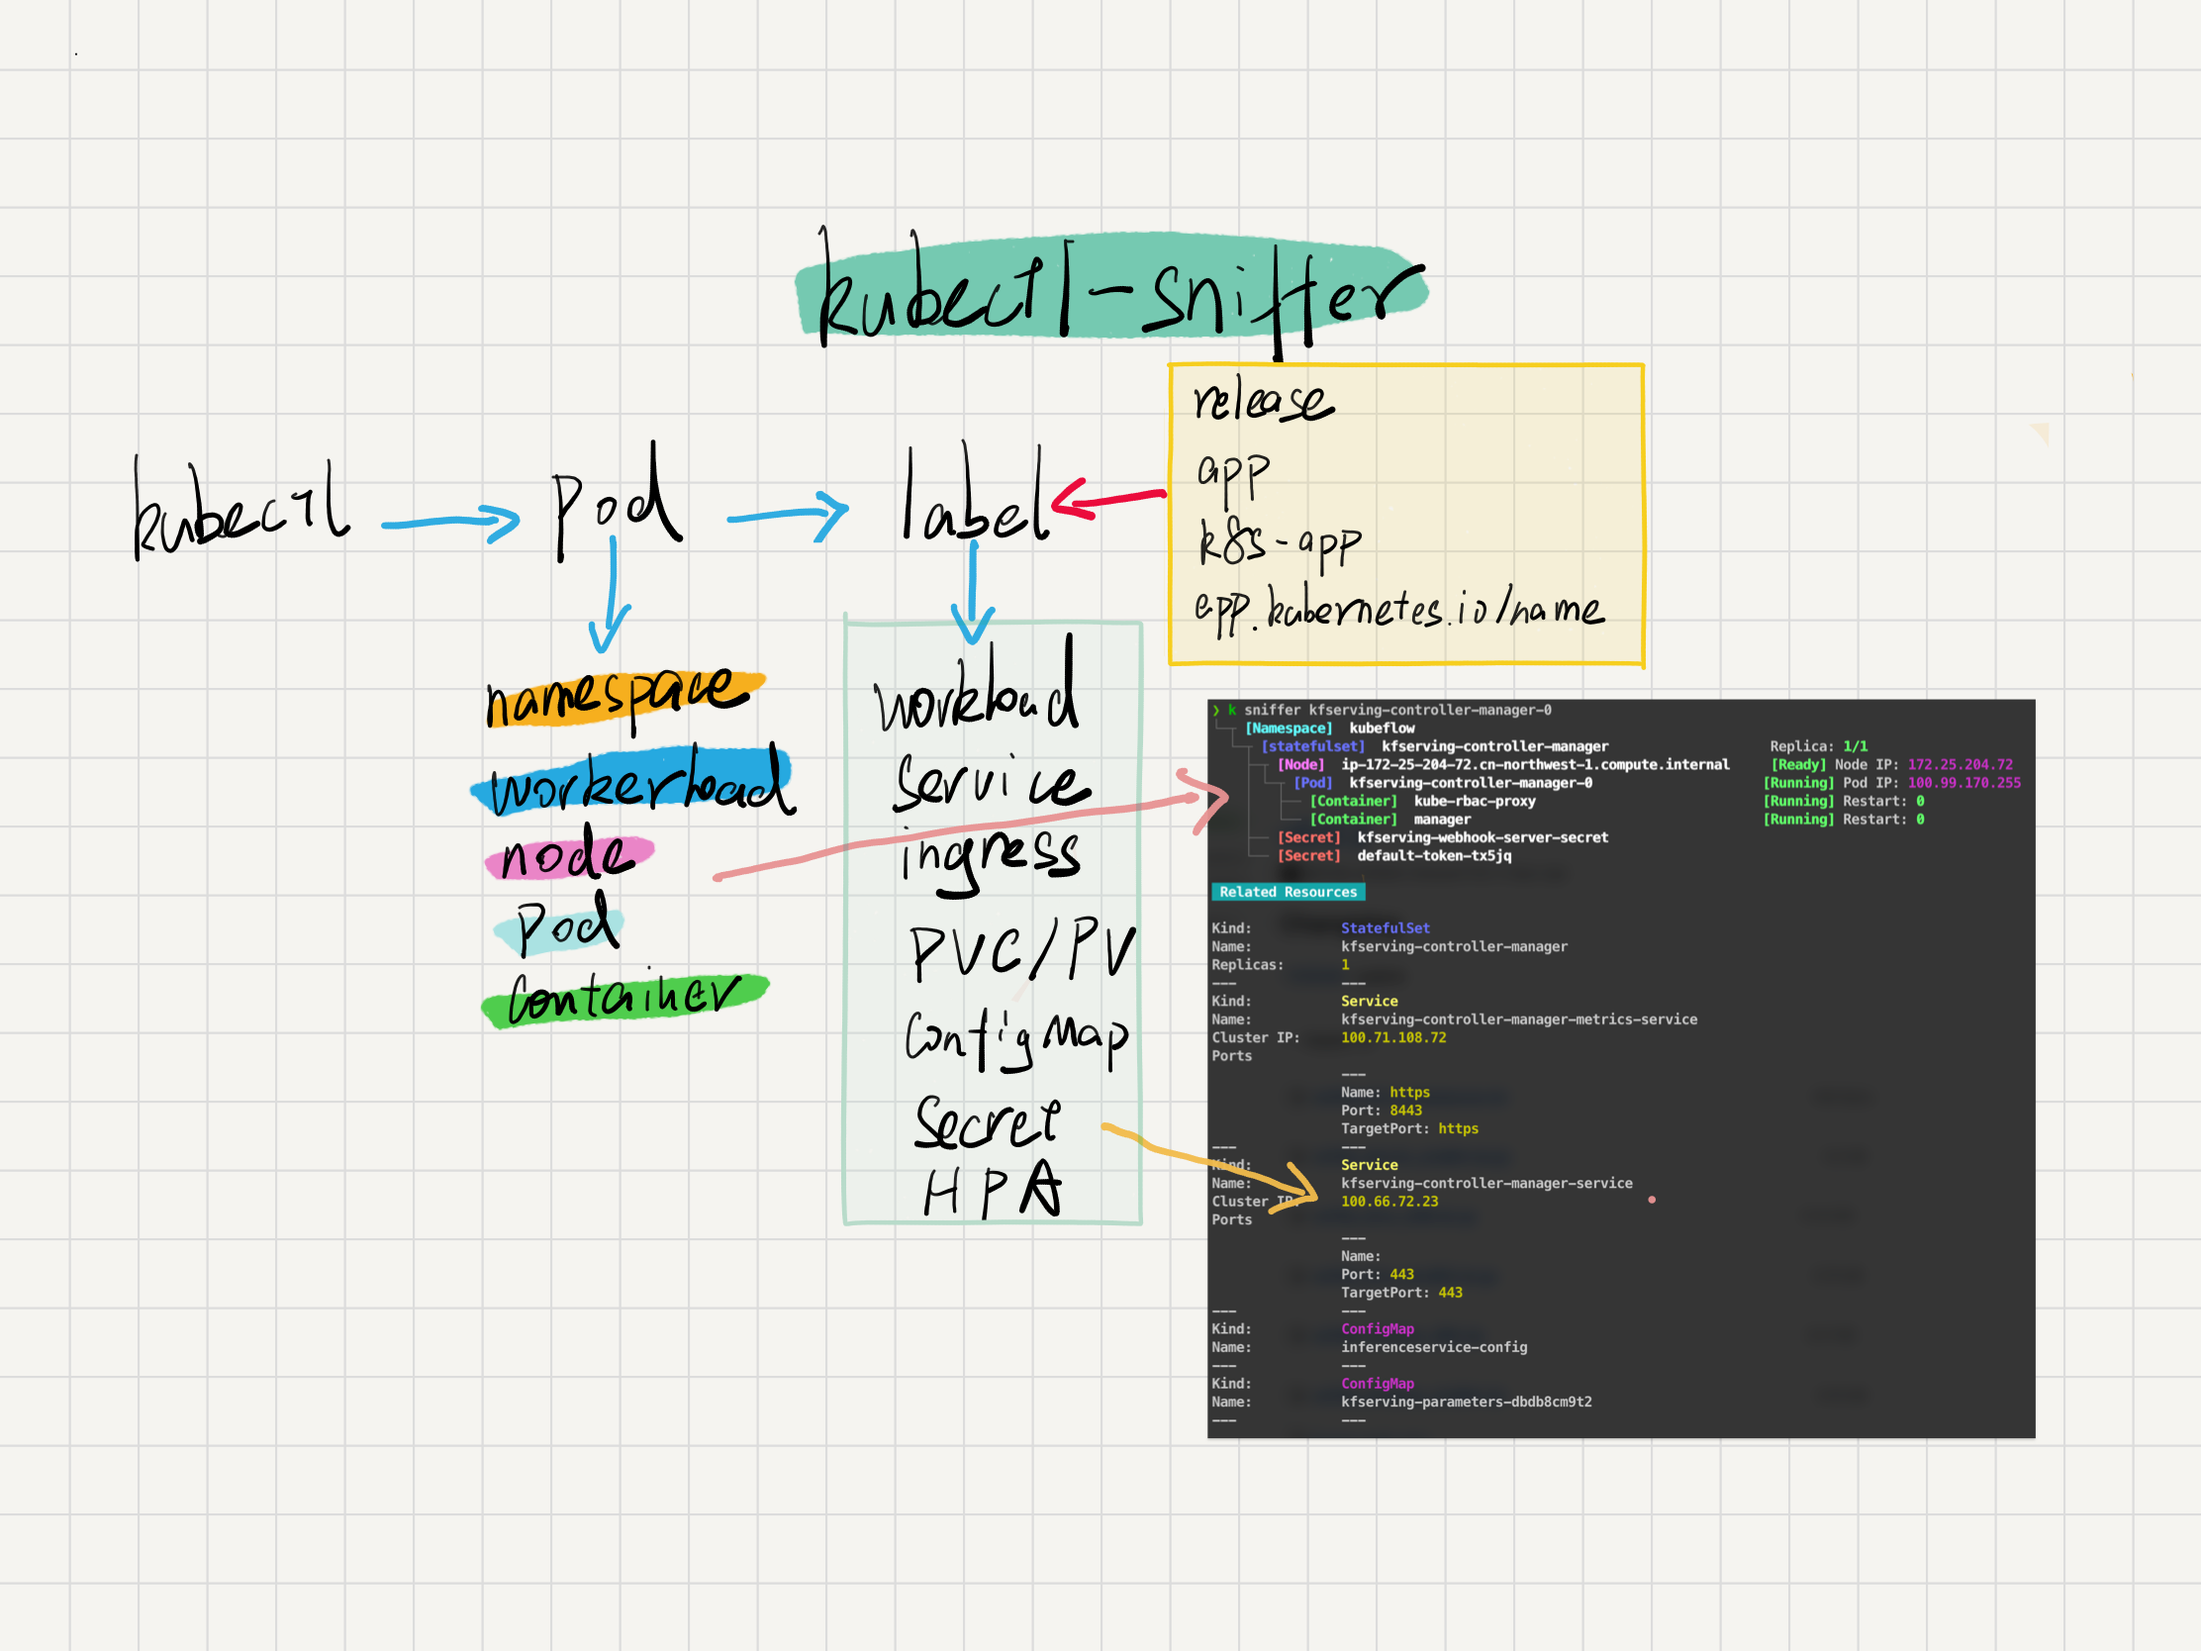
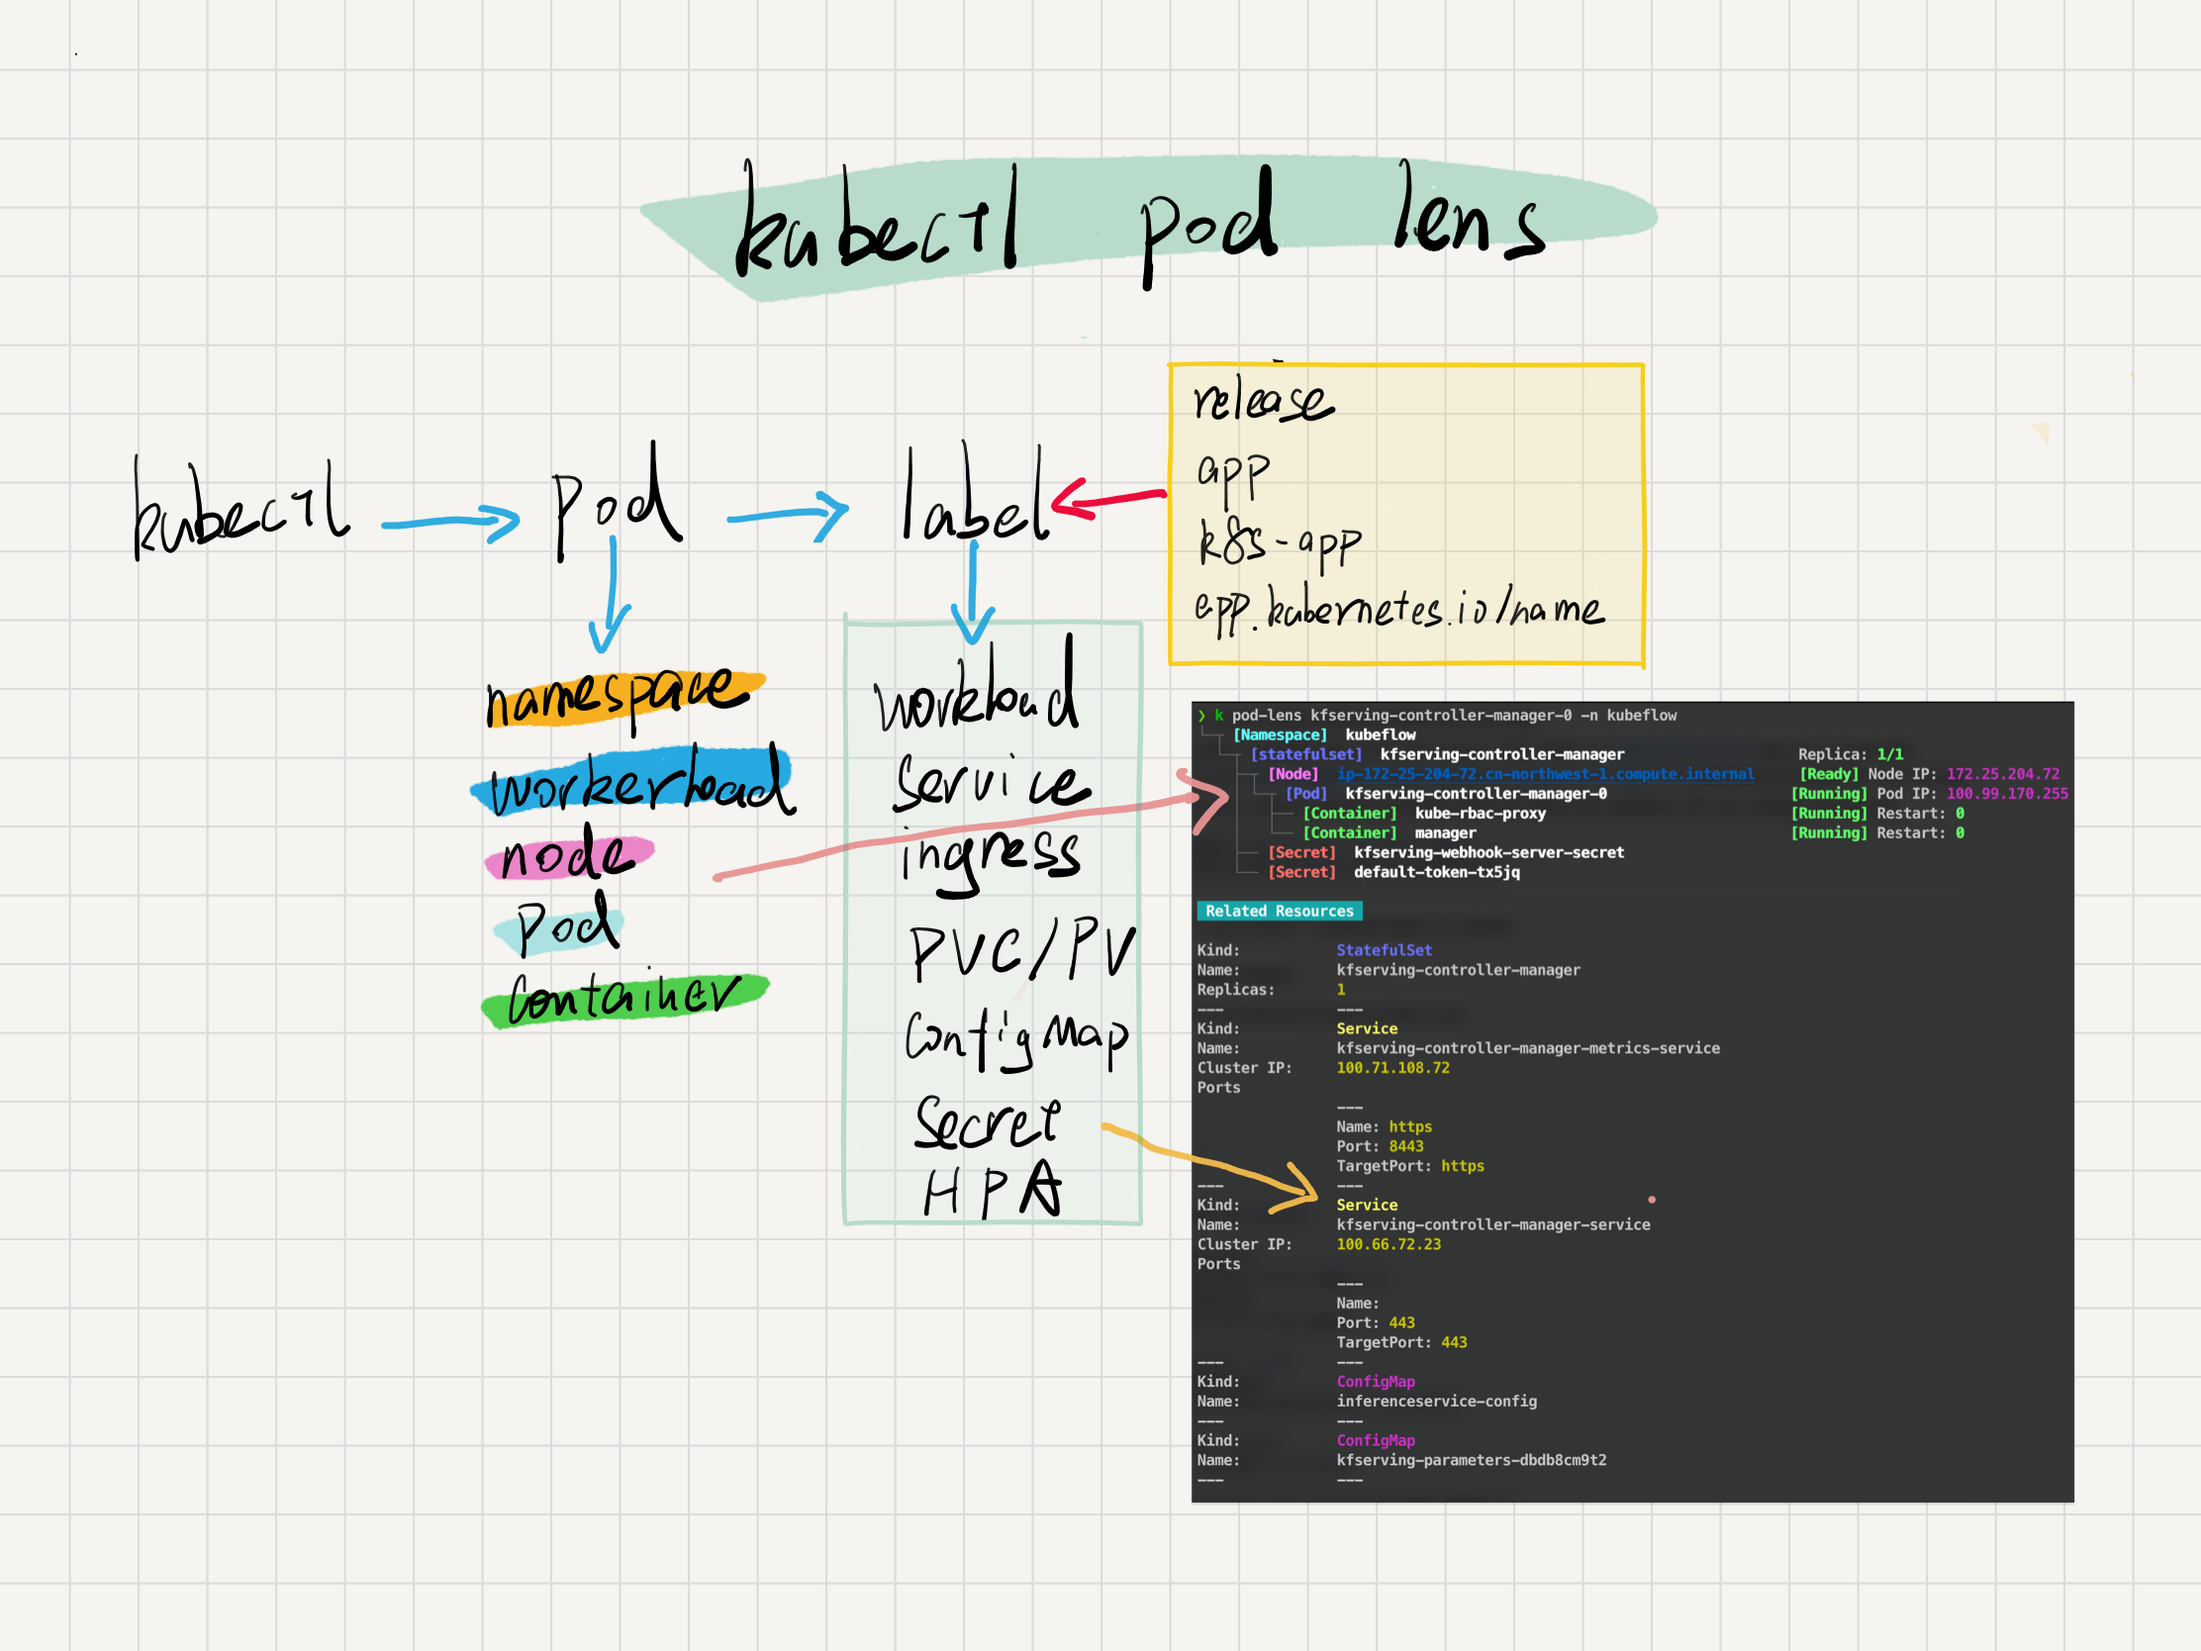
update

Changed region(s): [[0.5274, 0.4053, 0.9618, 0.9353], [0.2792, 0.0935, 0.7756, 0.2182]]

diff --git a/cmd/plugin/cli/root.go b/cmd/plugin/cli/root.go
@@ -26,7 +26,7 @@ func RootCmd() *cobra.Command {
 		Short: "View pod related resources.",
 		Long:  printLogo(),
 		Example: `
-# Sniffing pod-related resources
+# Show pod-related resources
 $ kubectl pod-lens prometheus-prometheus-operator-prometheus-0 
 `,
 		SilenceErrors: true,
@@ -102,8 +102,8 @@ func printLogo() string {
 {{| $$                                                                     }}::white
 {{|__/                                                                     }}::white
 
-Find related {{workloads}}::green|underline, {{namespace}}::green|underline, {{node}}::green|underline, {{service}}::green|underline, {{configmap}}::green|underline, {{secret}}::green|underline, {{ingress}}::green|underline and {{HPA}}::green|underline 
-by {{pod name}}::lightRed and display them in a {{tree}}::blue and {{table}}::blue.
+Find related {{workloads}}::green|underline, {{namespace}}::green|underline, {{node}}::green|underline, {{service}}::green|underline, {{configmap}}::green|underline, {{secret}}::green|underline, 
+{{ingress}}::green|underline and {{HPA}}::green|underline by {{pod name}}::lightRed and display them in a {{tree}}::blue and {{table}}::blue.
 Find more information at: {{https://github.com/sunny0826/kubectl-sniffer}}::lightMagenta|underline
 `)
 }
